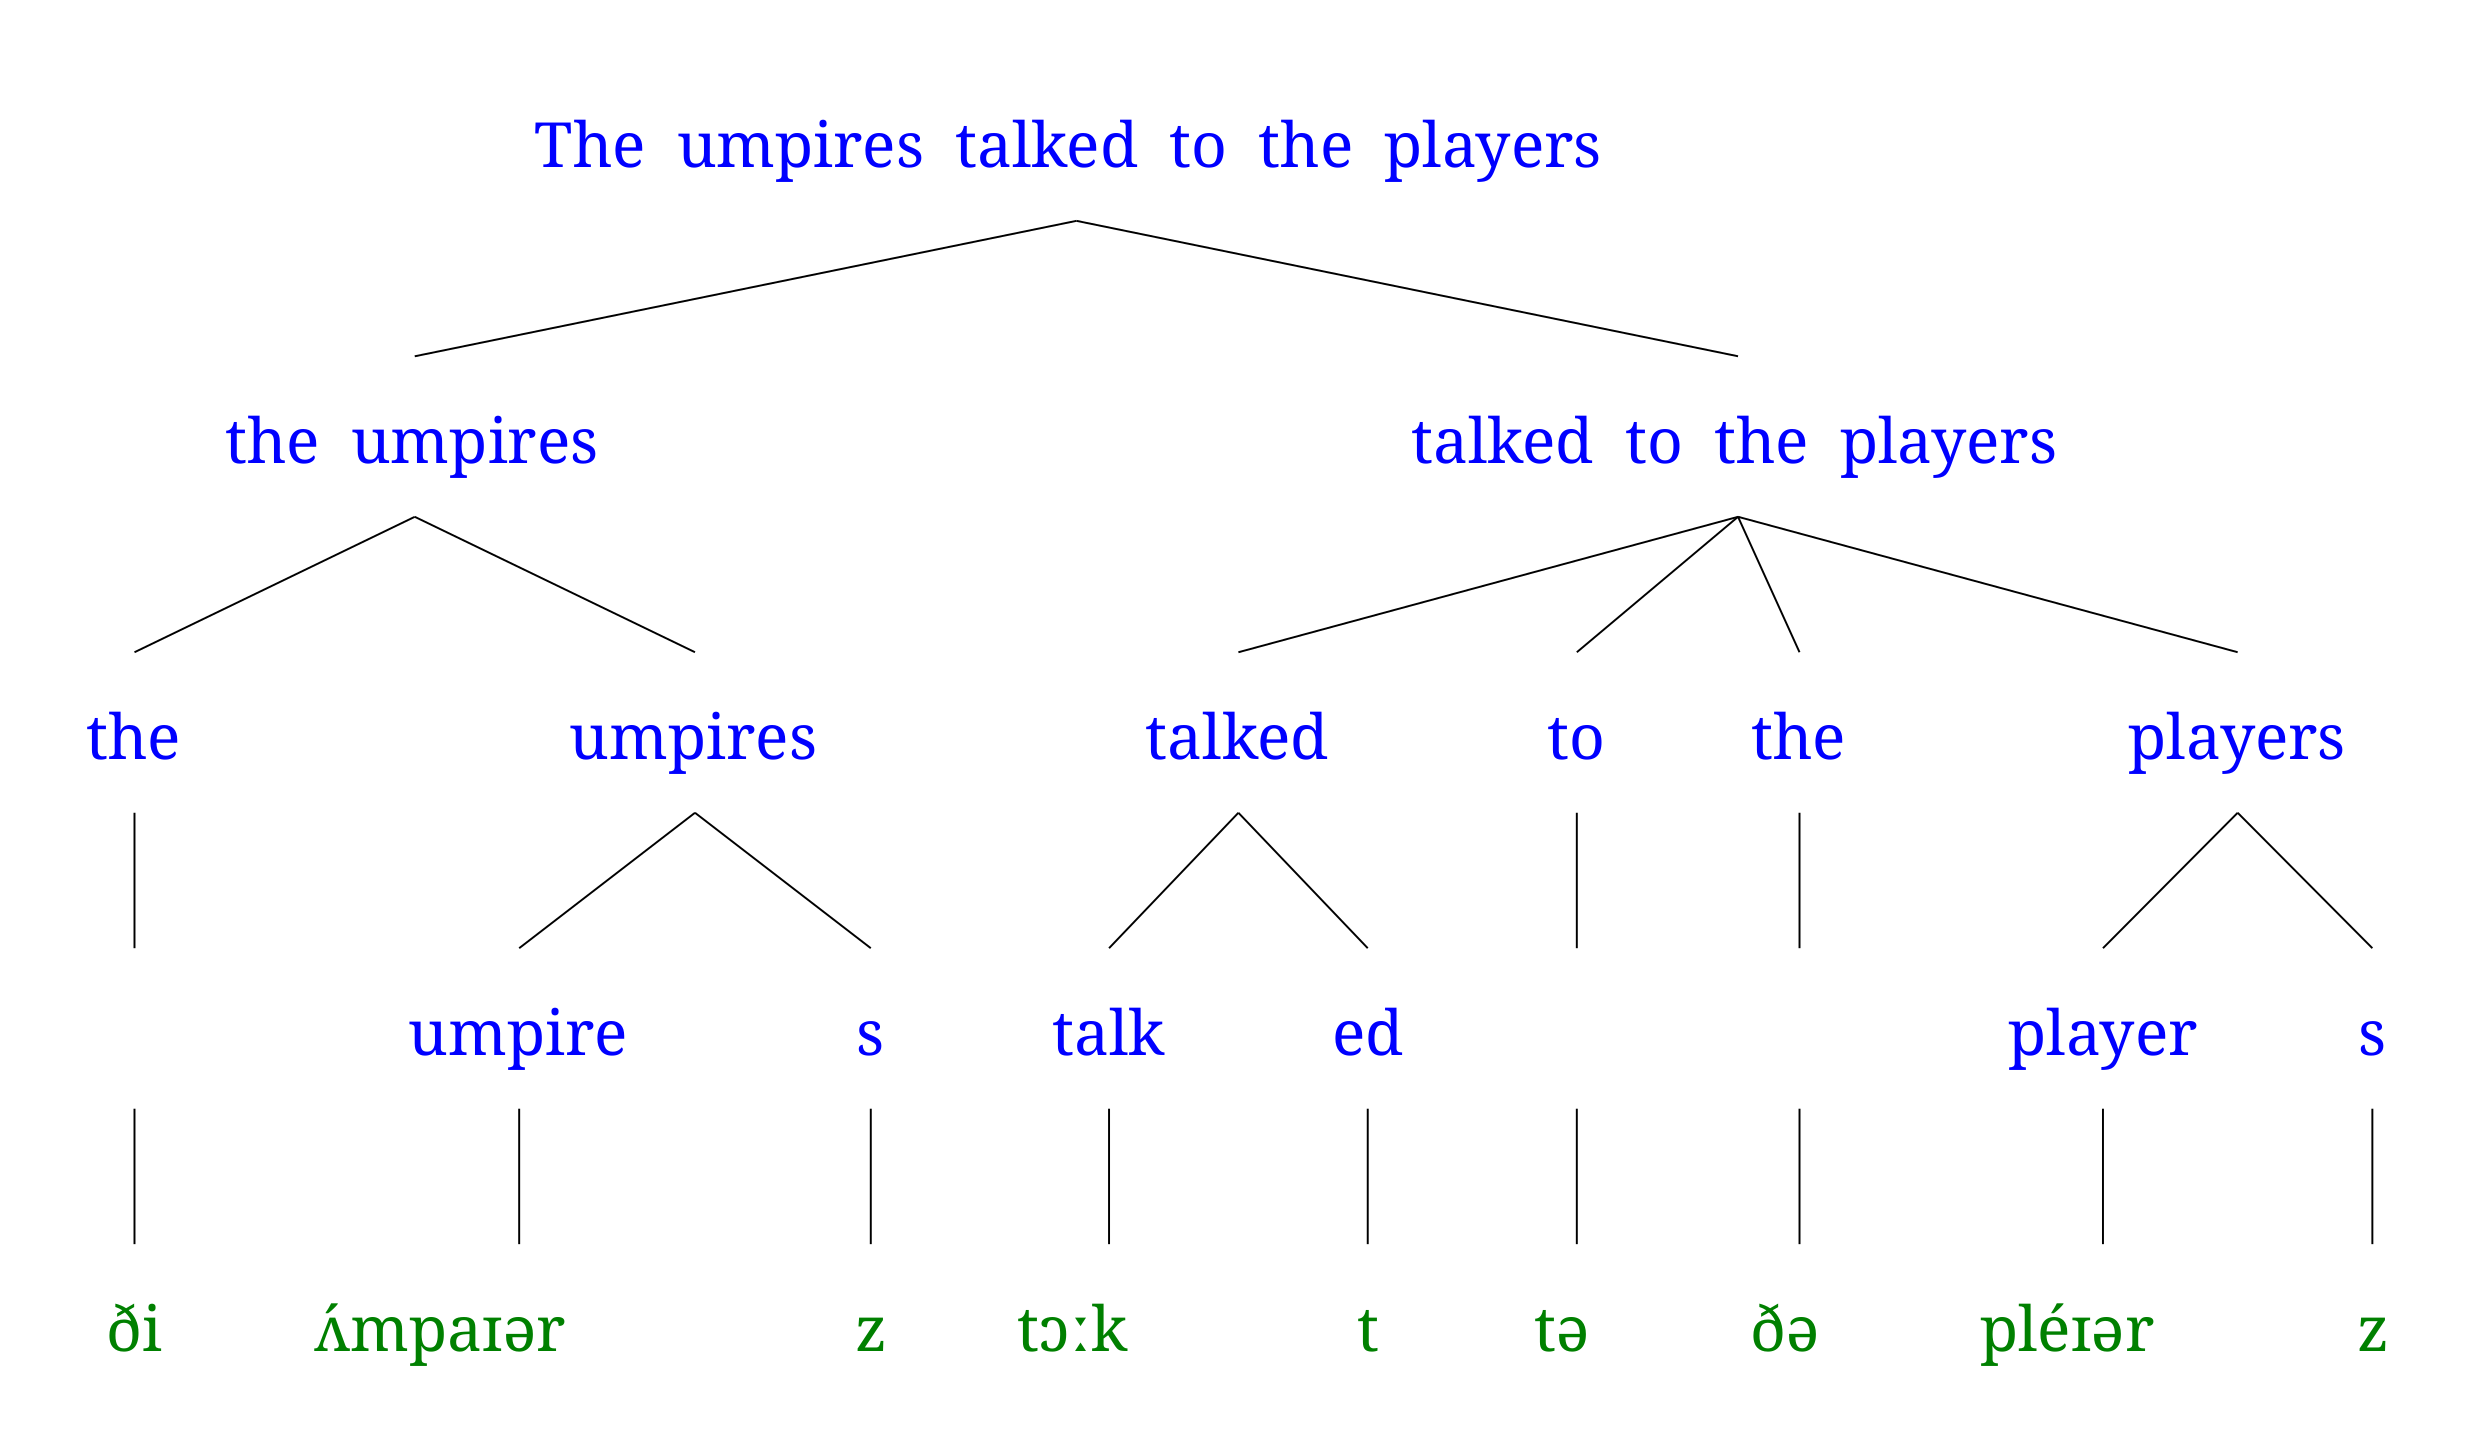
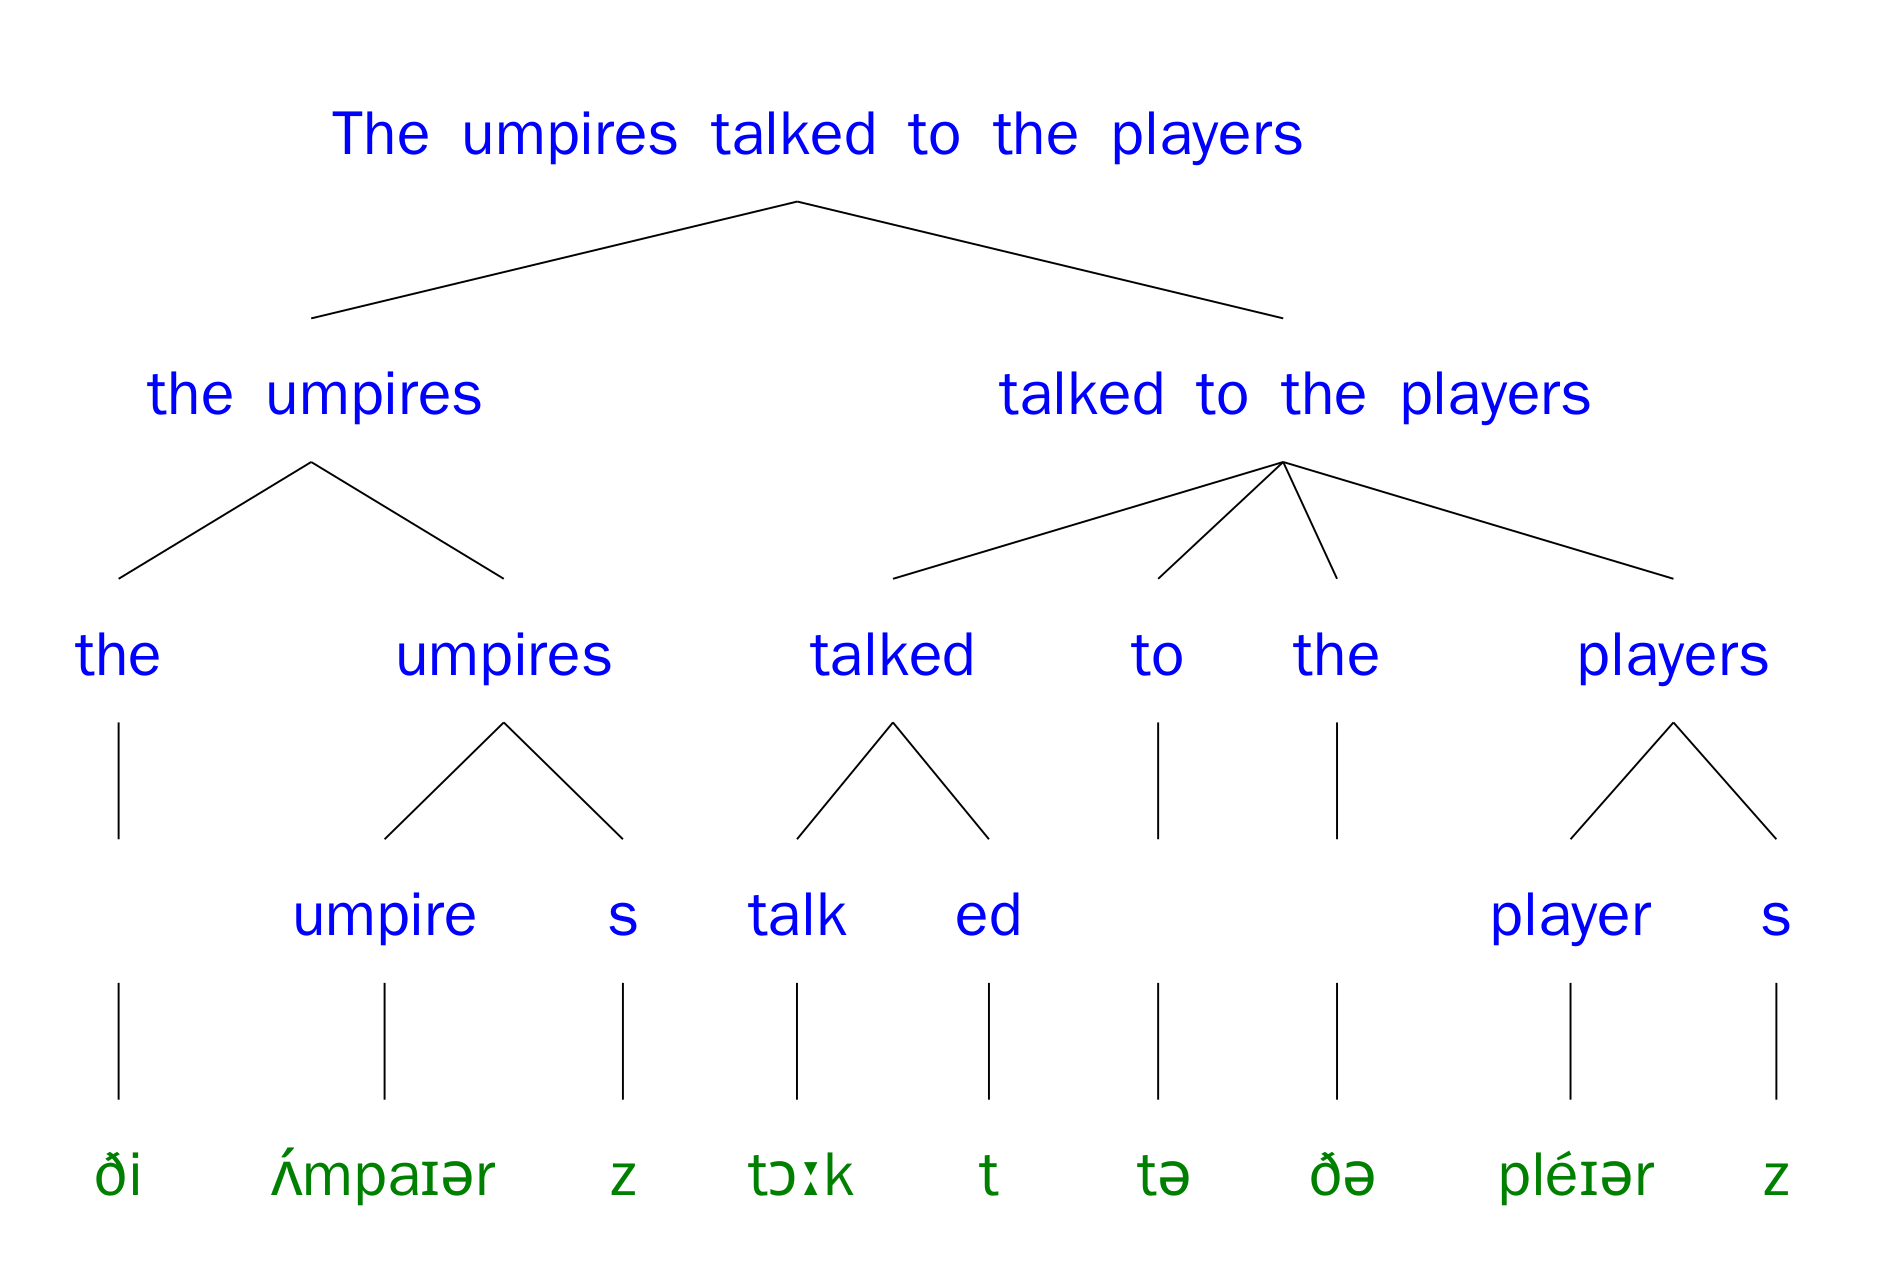
Examples 15 and 20 modified

diff --git a/docs/_layouts/default.html b/docs/_layouts/default.html
@@ -28,7 +28,7 @@
         <a href="https://yohasebe.com/rsyntaxtree" class="btn">Web Interface</a>
         <a href="{{site.url}}/rsyntaxtree/documentation" class="btn">Documentation</a>
         <a href="{{site.url}}/rsyntaxtree/examples" class="btn">Example Gallery</a>
-        <a href="https://github.com/yohasebe/rsyntaxtree" class="btn">GitHub</a>
+        <a href="https://github.com/yohasebe/rsyntaxtree" class="btn">GitHub Repo</a>
     </header>
 
     <main id="content" class="main-content" role="main">

diff --git a/docs/_examples/015.md b/docs/_examples/015.md
@@ -5,7 +5,7 @@ category: "Phonology"
 polyline: "off"
 symmetrization: "on"
 connector: "auto"
-font: "Noto Serif"
+font: "WQY Zen Hei"
 reference:
 ---
 ```

diff --git a/docs/_examples/020.md b/docs/_examples/020.md
@@ -5,7 +5,7 @@ category: "General"
 polyline: "off"
 symmetrization: "off"
 connector: "bar"
-font: "Noto Serif"
+font: "WQY Zen Hei"
 reference: 
 ---
 ```
